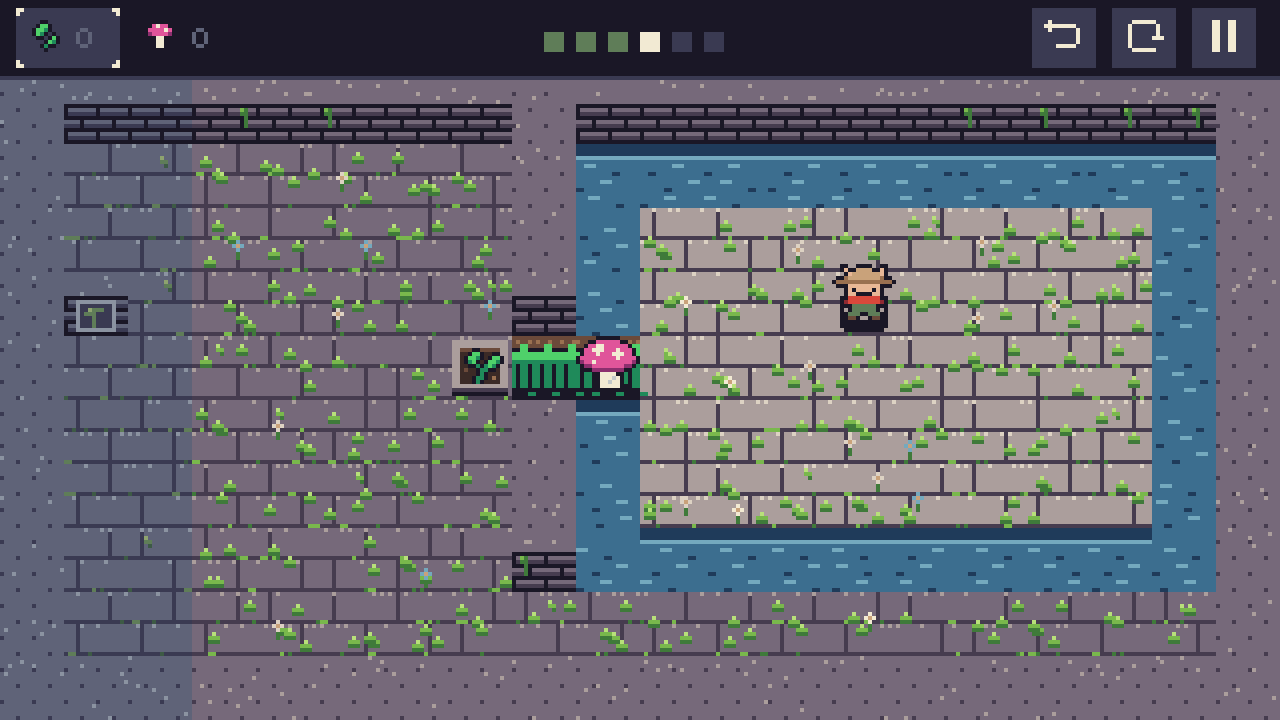
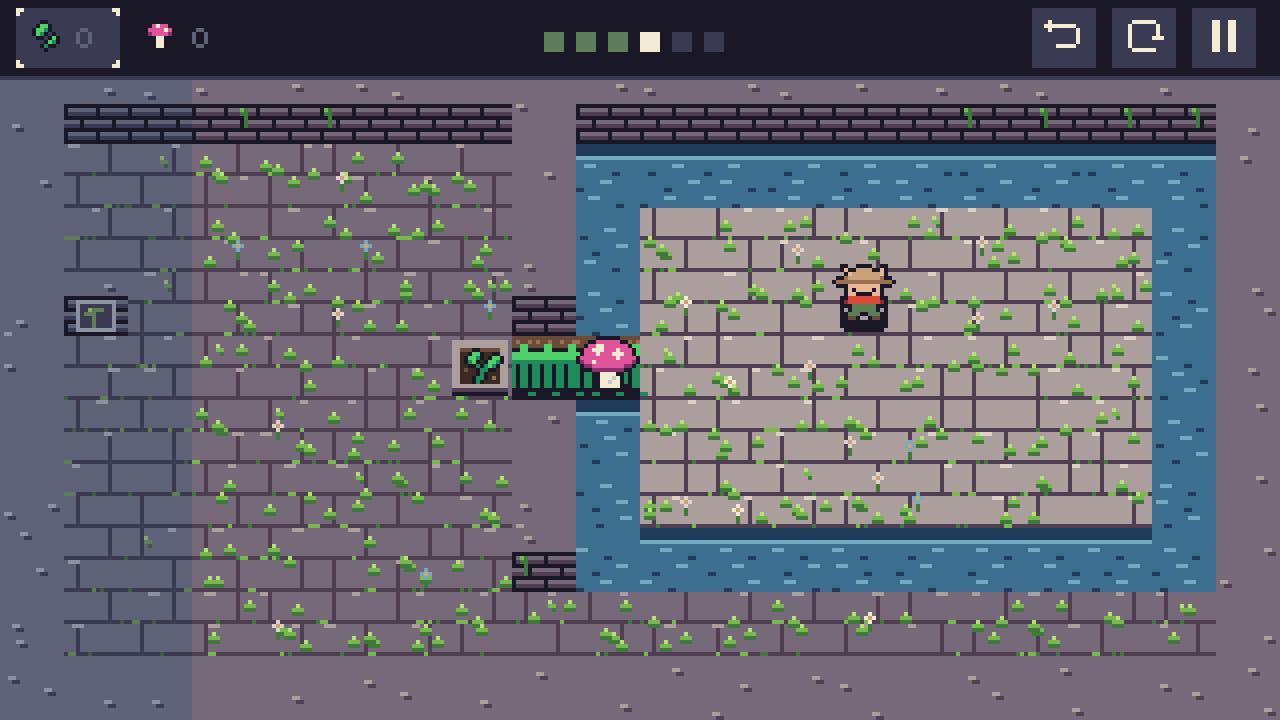
fix(games): Dot Gardener texture by clusters, not speckle
The audit counted 1,569 lone pixels: random single-pixel speckle on
wall tops, floors and rubble. They are now small clusters lit from the
top-left with empty stone between them (538 lone pixels remain, mostly
flowers and water glints). The bloom stone colour moves from #463c4f to
#503f52, because the audit found it nearly identical to the base stone
and the warming did not read. A pixel-contract frame test brings the
self-tests to 14.

diff --git a/games/dot-gardener/index.html b/games/dot-gardener/index.html
@@ -216,7 +216,7 @@ const PAL = {
   z: "#0d0b14",                                                           // reserved: darkness
 };
 // bloom swaps the moss ramp for living greens and warms the stone (a separate table, as the art direction asks)
-const BLOOM = { ...PAL, N: "#2c4f2b", n: "#3f7a3a", M: "#79b84c", m: "#b8e07a", S: "#463c4f", g: "#76697a", l: "#ab9e9c", w: "#ddd2c3" };
+const BLOOM = { ...PAL, N: "#2c4f2b", n: "#3f7a3a", M: "#79b84c", m: "#b8e07a", S: "#503f52", g: "#76697a", l: "#ab9e9c", w: "#ddd2c3" };
 const hash = (x, y, s = 0) => { let h = (x * 374761393 + y * 668265263 + s * 2147483647) | 0; h = (h ^ (h >>> 13)) * 1274126177; return ((h ^ (h >>> 16)) >>> 0) / 4294967296; };
 function mk(w, h) { const c = document.createElement("canvas"); c.width = w; c.height = h; return c; }
 // sprites are rows of palette letters; "." is transparent. mirror() makes the left-facing copies.
@@ -297,7 +297,8 @@ function paintFloor(g, P, X, Y, tx, ty, raised) {   // worn flagstones with moss
   const off = hash(tx, ty) < 0.5 ? 0 : 8;
   for (let i = 0; i < 16; i++) { px(g, P, "S", X + i, Y + 7, 1, 1); px(g, P, "S", X + i, Y + 15, 1, 1); }
   px(g, P, "S", X + ((off + 3) % 16), Y, 1, 7); px(g, P, "S", X + ((off + 11) % 16), Y + 8, 1, 7);
-  for (let i = 0; i < 16; i++) { if (hash(tx, ty, i) < 0.3) px(g, P, hi, X + i, Y + (i % 2 ? 0 : 8), 1, 1); }
+  for (let row = 0; row < 16; row += 8) if (hash(tx, ty, 70 + row) < 0.6) {   // worn top edges catch the light: 2-3 px runs, never single specks
+    const len = 2 + (hash(tx, ty, 71 + row) < 0.4), i = 1 + Math.floor(hash(tx, ty, 72 + row) * (14 - len)); px(g, P, hi, X + i, Y + row, len, 1); }
   for (let i = 0; i < 6; i++) { const r = hash(tx, ty, 40 + i); if (r < 0.55) px(g, P, r < 0.25 ? "M" : "n", X + Math.floor(hash(tx, ty, 50 + i) * 16), Y + (hash(tx, ty, 60 + i) < 0.5 ? 7 : 15), 1 + (r < 0.15), 1); }
   if (hash(tx, ty, 9) < 0.18) { const cx = X + 3 + Math.floor(hash(tx, ty, 10) * 9), cy = Y + 2 + Math.floor(hash(tx, ty, 11) * 3); px(g, P, "M", cx, cy, 2, 1); px(g, P, "m", cx, cy - 1, 1, 1); px(g, P, "n", cx + 1, cy + 1, 1, 1); }
 }
@@ -305,8 +306,11 @@ function paintWall(g, P, X, Y, tx, ty, below, mural) {   // 3/4 view: a light to
   const front = below !== "#" && below !== "m" && below !== " ";
   px(g, P, "S", X, Y, 16, 16);
   const topH = front ? 6 : 16;
-  px(g, P, "g", X, Y, 16, topH); for (let i = 0; i < 16; i++) if (hash(tx, ty, i) < 0.25) px(g, P, "l", X + i, Y + Math.floor(hash(tx, ty, 20 + i) * topH), 1, 1);
-  if (!front) { for (let r = 0; r < 4; r++) for (let i = 0; i < 16; i += 8) px(g, P, "S", X + ((i + r * 4) % 16), Y + r * 4 + 3, 1, 1); return; }
+  px(g, P, "g", X, Y, 16, topH);
+  for (let k = 0; k < (front ? 1 : 2); k++) if (hash(tx, ty, 20 + k) < 0.7) {   // grain as small lit clusters (light top-left), with empty stone between
+    const x = X + 1 + Math.floor(hash(tx, ty, 22 + k) * 12), y = Y + 1 + Math.floor(hash(tx, ty, 24 + k) * Math.max(1, topH - 3)) + k * (front ? 0 : 6);
+    px(g, P, "l", x, y, 2, 1); px(g, P, "S", x + 1, y + 1, 2, 1); }
+  if (!front) return;
   px(g, P, "k", X, Y + topH, 16, 1);
   for (let r = 0; r < 3; r++) {   // bricks
     const yy = Y + topH + 1 + r * 3, sh = r % 2 ? 4 : 0;
@@ -351,7 +355,8 @@ function paintGoal(g, P, X, Y, tx, ty, raised, bloomed) {   // the dried basin o
 }
 function paintDeep(g, P, X, Y, tx, ty) {   // solid ruin mass beyond the walls: dark rubble with roots, so the play area reads at a glance
   px(g, P, "k", X, Y, 16, 16);
-  for (let i = 0; i < 7; i++) { const r = hash(tx, ty, 300 + i), x = X + Math.floor(hash(tx, ty, 310 + i) * 14), y = Y + Math.floor(hash(tx, ty, 320 + i) * 14); px(g, P, r < 0.5 ? "S" : r < 0.8 ? "N" : "g", x, y, r < 0.3 ? 2 : 1, 1); }
+  for (let i = 0; i < 3; i++) { const r = hash(tx, ty, 300 + i), x = X + 1 + Math.floor(hash(tx, ty, 310 + i) * 12), y = Y + 1 + i * 5 + Math.floor(hash(tx, ty, 320 + i) * 2);
+    if (r < 0.8) { px(g, P, r < 0.5 ? "S" : "N", x, y, 2, 1); px(g, P, "N", x + 1, y + 1, 2, 1); } }   // rubble chunks: a lit top over a darker side
   if (hash(tx, ty, 330) < 0.25) { const x = X + 2 + Math.floor(hash(tx, ty, 331) * 10); px(g, P, "N", x, Y, 1, 6); px(g, P, "n", x + 1, Y + 5, 1, 4); }
 }
 // the 3/4 faces that hang below raised floors and walls into the tile underneath
@@ -884,6 +889,15 @@ function selftest() {
   S = act(newState(room), room, "Ps").S; r = act(S, room, "R"); ok("a sunflower blocks its tile", r.S.x === 1 && r.ev.some((e) => e.e === "bump"));
   ok("integer scaling: 1280×720 → ×4, 1920×1080 → ×6, never below ×1", scaleFor(1280, 720) === 4 && scaleFor(1920, 1080) === 6 && scaleFor(300, 100) === 1);
   const base = new Set(Object.values(PAL)); ok("base palette stays within 32 colours (27 + reserved)", base.size <= 32, `${base.size} colours`);
+  {   // pixel contract: a real frame (room 4 mid-bloom, HUD, text) holds palette colours only
+    const keep = { scene: G.scene, ri: G.ri }, rgb = (h) => [1, 3, 5].map((i) => parseInt(h.slice(i, i + 2), 16)).join(",");
+    const allowed = new Set([...Object.values(PAL), ...Object.values(BLOOM)].map(rgb));
+    G.scene = "play"; enterRoom(3, false); G.bloomT = 0.4; render();
+    const d = b.getImageData(0, 0, VW, VH).data; let stray = 0, ex = "";
+    for (let i = 0; i < d.length; i += 4) { const k = d[i] + "," + d[i + 1] + "," + d[i + 2]; if (!allowed.has(k) || d[i + 3] !== 255) { stray++; ex = ex || k; } }
+    ok("a drawn frame (room 4 blooming, HUD and text) uses palette colours only (no anti-aliasing or blending)", stray === 0, `${stray} stray pixels ${ex}`);
+    G.scene = keep.scene; enterRoom(keep.ri, false);
+  }
   const pass = out.every((o) => o.pass), el = document.getElementById("selftest");
   el.textContent = JSON.stringify({ game: "dot-gardener", pass, results: out }, null, 1); el.hidden = false; document.title = "SELFTEST " + (pass ? "PASS" : "FAIL");
 }
